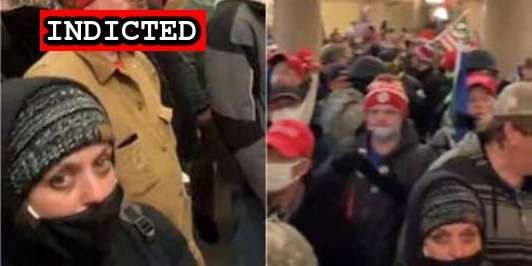
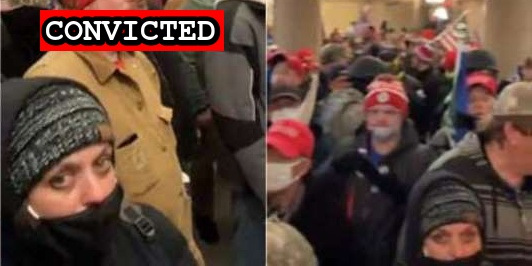
Virigina Spencer plea

Changed region(s): [[0.0602, 0.0301, 0.4211, 0.2105]]

diff --git a/docs/_suspects/virginia-spencer.md b/docs/_suspects/virginia-spencer.md
@@ -3,13 +3,13 @@ name: Virginia Spencer
 lastName: Spencer
 aka: Jenny Spencer
 residence: North Carolina
-status: Indicted
+status: Convicted
 date: 2021-02-05
 charged: 2021-02-05
 indicted: 2021-03-10
-convicted: 
-sentenced: 
-dismissed: 
+convicted: 2021-09-09
+sentenced:
+dismissed:
 deceased:
 age: 37
 occupation:
@@ -29,6 +29,11 @@ author: seditiontrack
 layout: suspect
 published: true
 caseNumber: 1:21-cr-147
+charges:
+- code: 18 USC § 5104(e)(2)(G)
+  title: Parading, Demonstrating or Picketing in a Capitol Building
+  url: https://www.law.cornell.edu/uscode/text/40/5104
+  felony: false
 ---
 - [News Report](https://www.msn.com/en-us/news/crime/nc-woman-turns-self-over-to-fbi-for-alleged-role-in-us-capitol-riot-a-month-after-husbands-arrest/ar-BB1dvNB2?ocid=st)
 - [Complaint](https://www.scribd.com/document/493601649/j-Spencer-FBI-document)
